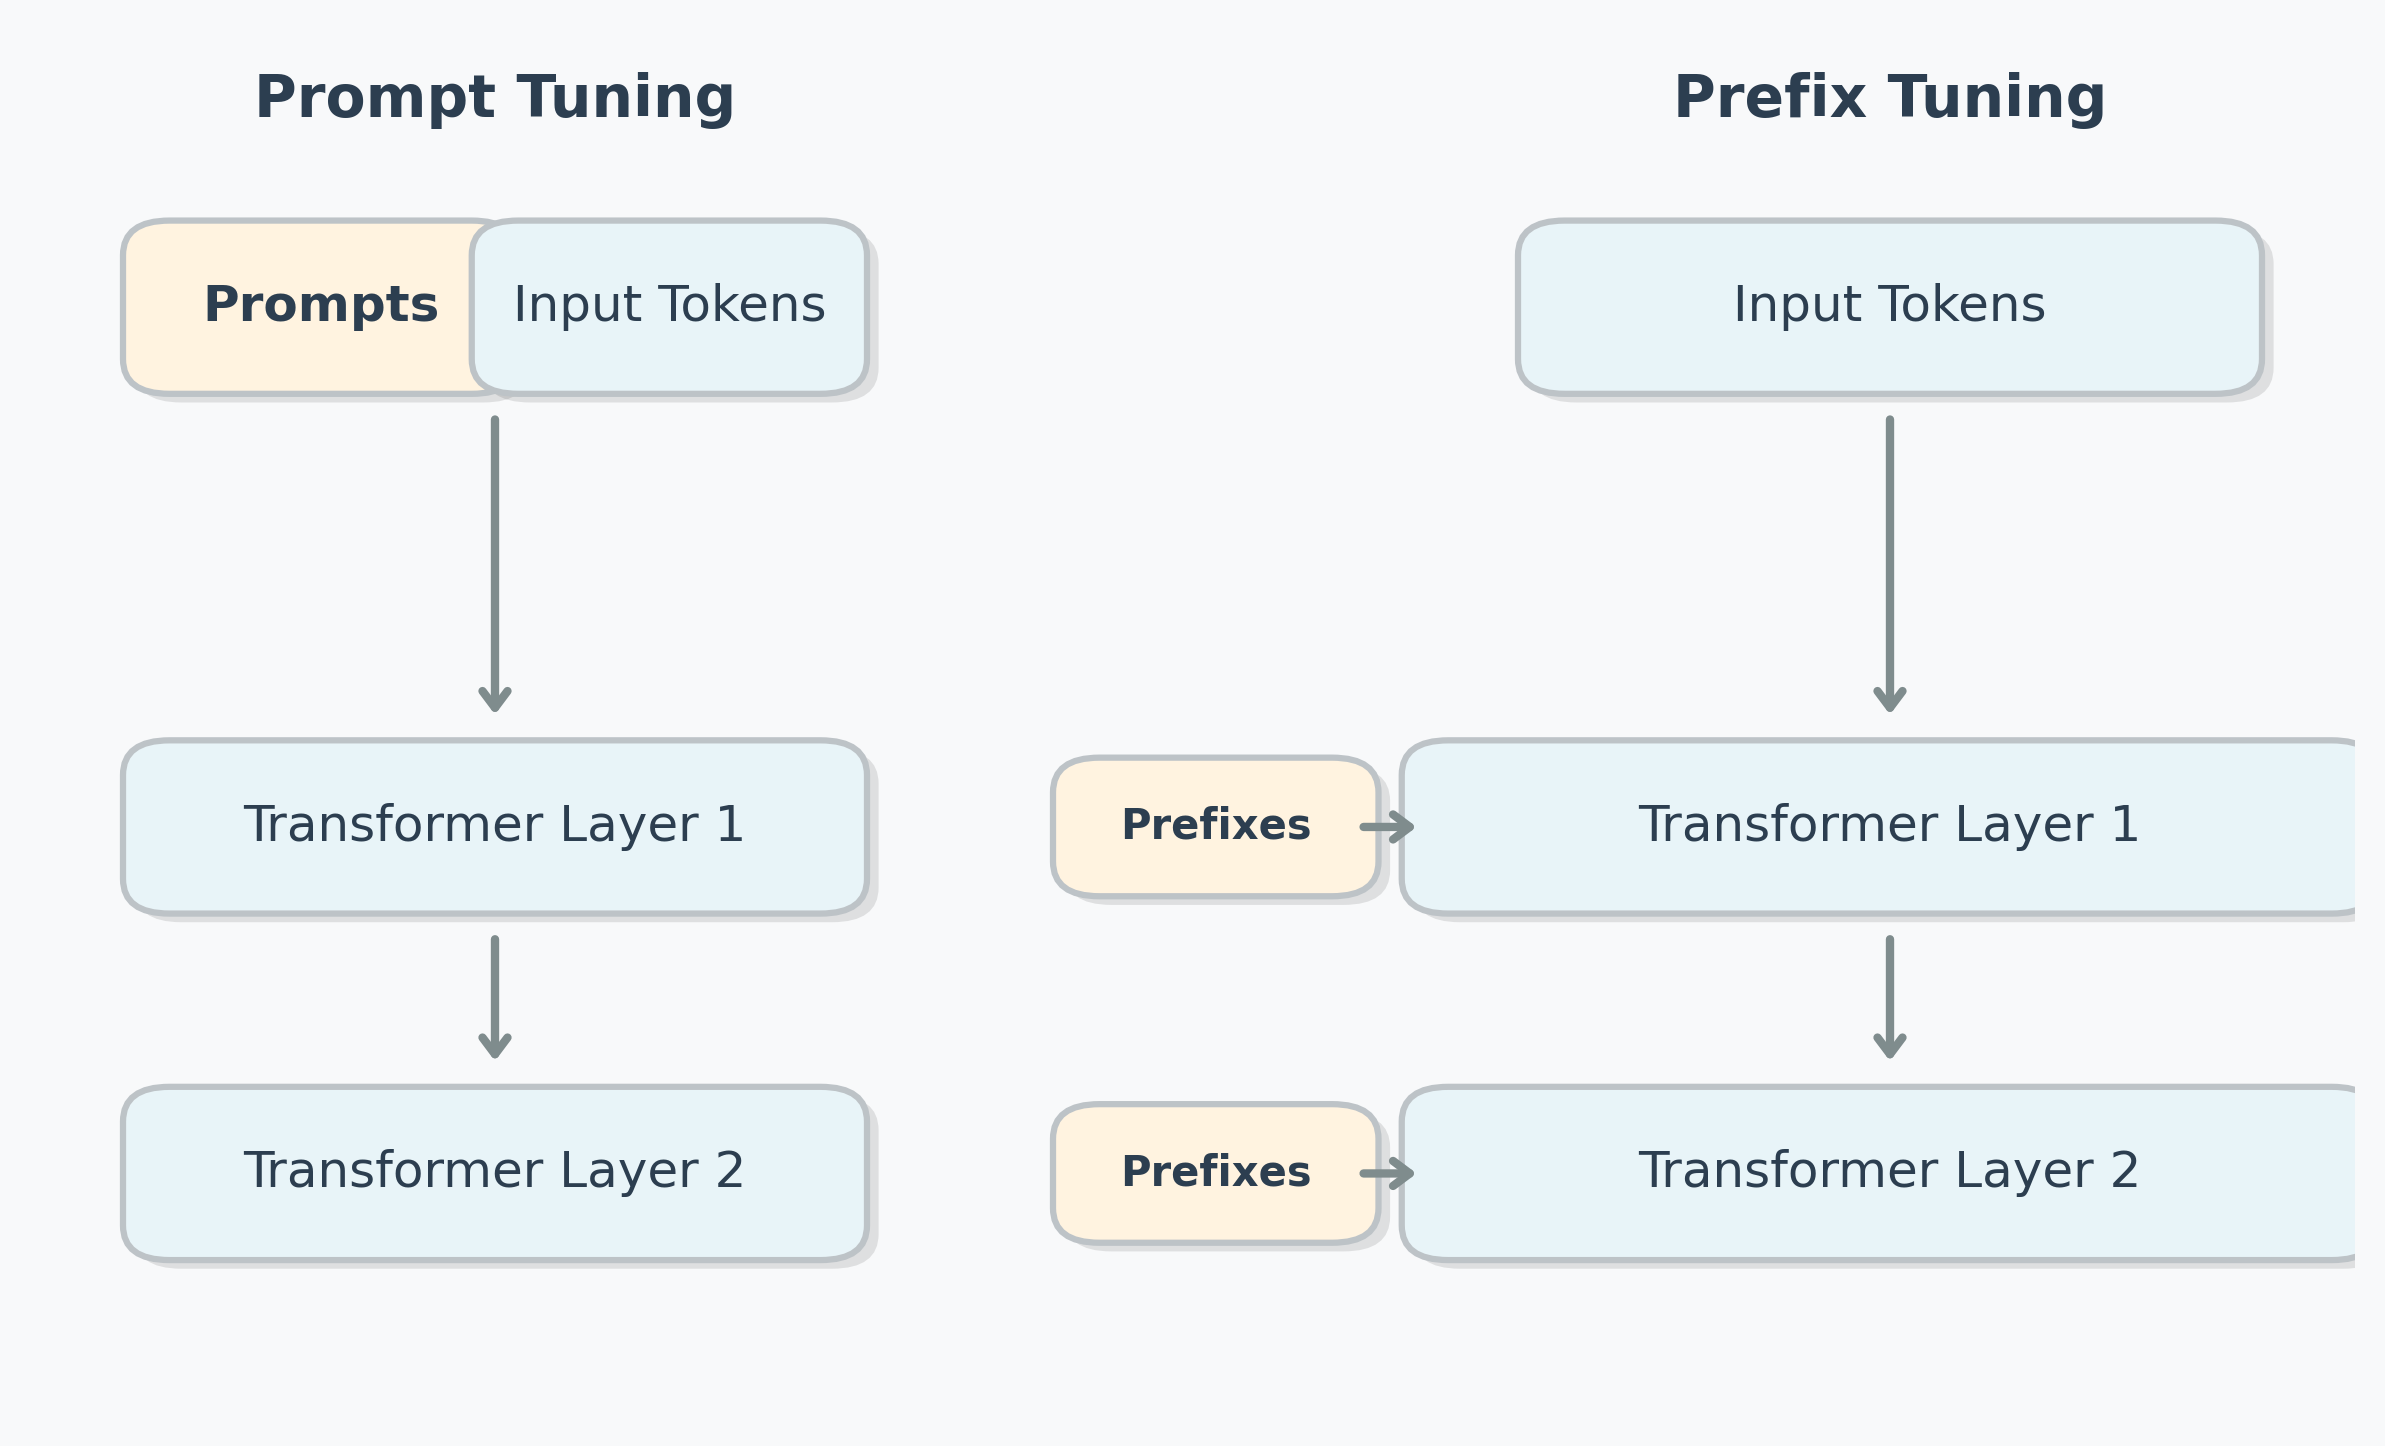
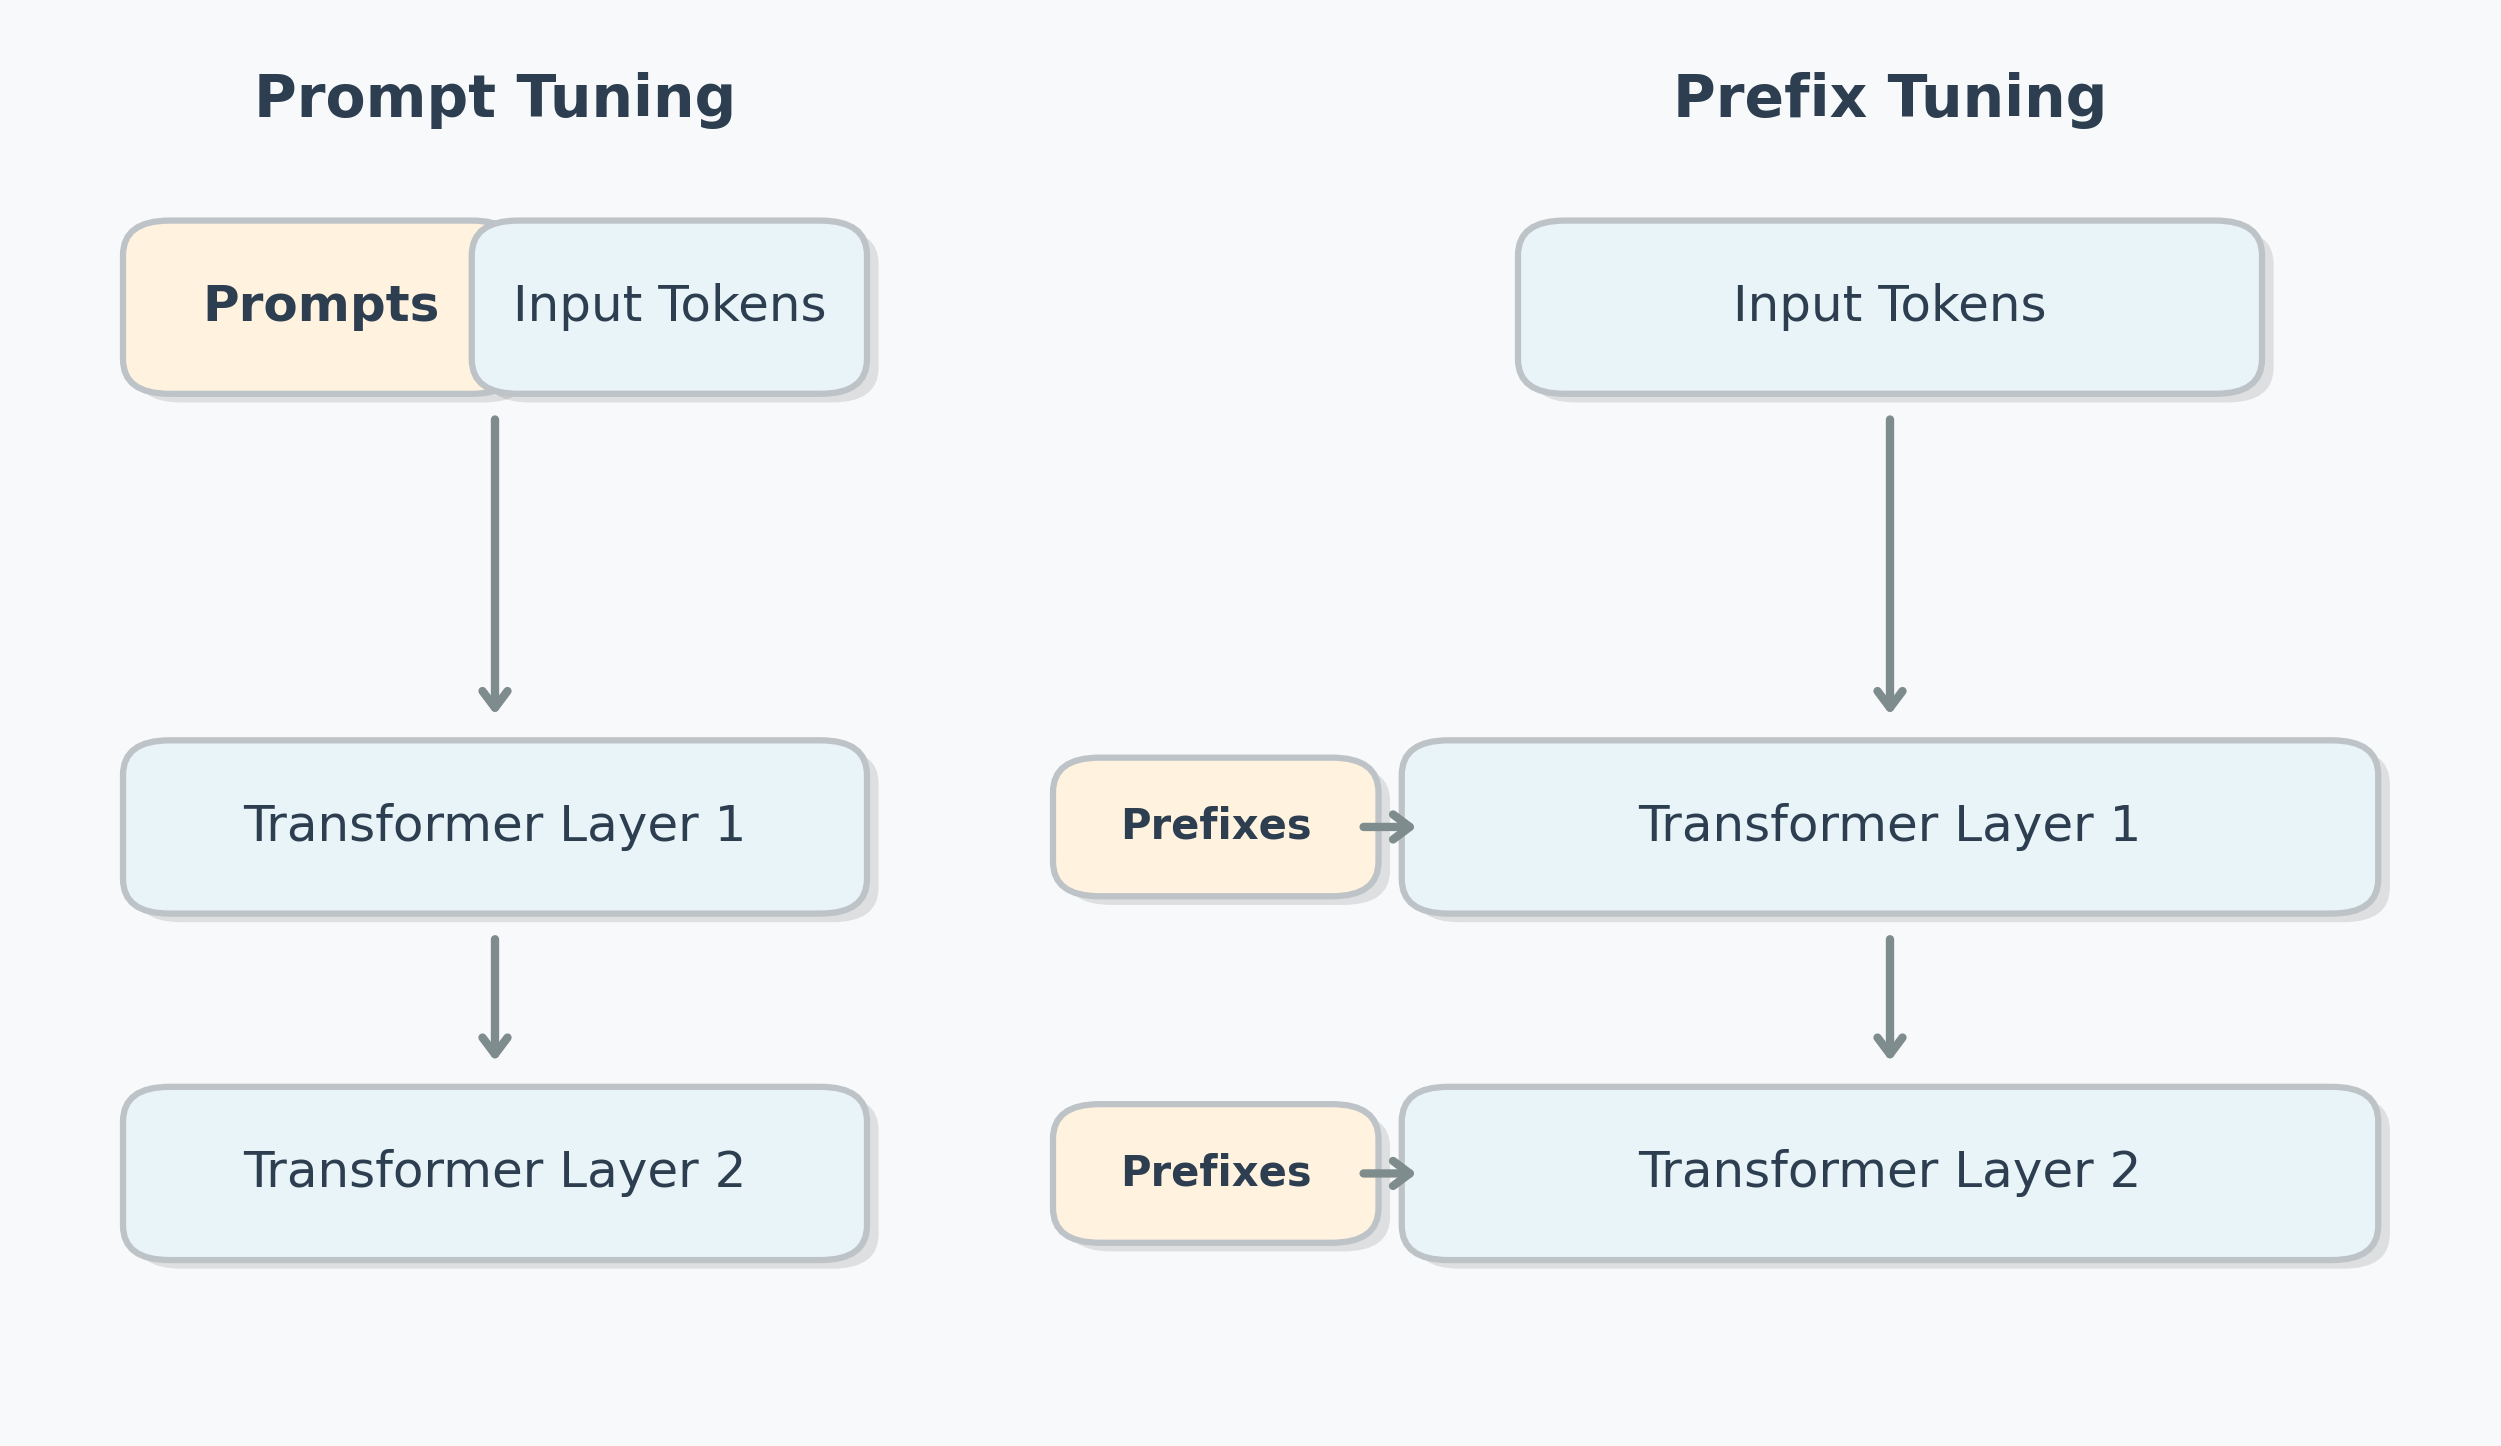
Fix Transformer Layer clipping in prefix_vs_prompt diagram

diff --git a/prefix_tuning_diagrams.py b/prefix_tuning_diagrams.py
@@ -27,9 +27,9 @@ def draw_fancy_arrow(ax, x1, y1, x2, y2, connectionstyle="arc3"):
                                 connectionstyle=connectionstyle))
 
 # 1. Prompt Tuning vs Prefix Tuning
-fig, ax = plt.subplots(figsize=(10, 6), facecolor=C_BG)
+fig, ax = plt.subplots(figsize=(10.5, 6), facecolor=C_BG)
 ax.axis('off')
-ax.set_xlim(0, 10)
+ax.set_xlim(0, 10.5)
 ax.set_ylim(0, 8)
 
 # Prompt Tuning (Left)